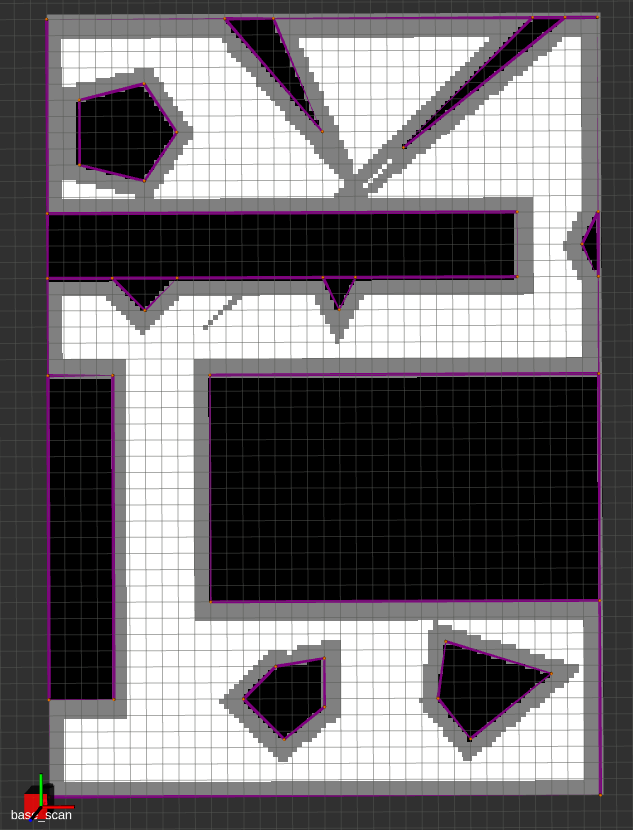
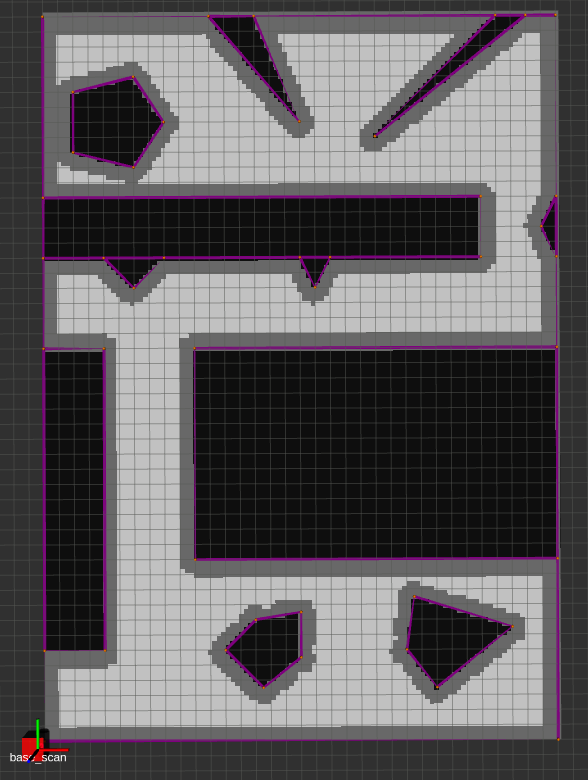
fixed final edge case for grid! Was being too strict on the signed distance being below the inflation threshold. Did not consider that the point P could lie outside of the line segment window.
Added images for grid result and grid-prm overlay to verify validity

diff --git a/map/src/map/prm.cpp b/map/src/map/prm.cpp
@@ -304,15 +304,49 @@ namespace map
 				// and determine signed distance
 				auto shrt = lineToPoint(Vertex(A), Vertex(B), Vertex(P.coords));
 
-				if (shrt.D < - inflate_robot)
-					// P is on the right side of at least one edge PLUS buffer, not necessarily on obstacle
-					// Only way this can be an obstacle now is if it's ON and edge (next condition)
+				if (shrt.D < 0.0)
+					// P is on the right side of at least one edge, not necessarily on obstacle
+					// Only way this can be an obstacle now is if it's ON and edge
 				{
-					on_all_left = false;
+					// if P is within the segment window, check whether it is in the inflation bound
+					if ((shrt.u >= 0.0 and shrt.u <= 1.0) or rigid2d::almost_equal(shrt.u, 0.0)\
+														  or rigid2d::almost_equal(shrt.u, 1.0))
+					{
+						if (shrt.D < - inflate_robot)
+						{
+							on_all_left = false;
+						}
+					} else
+					// P is not within the segment window, so check if distance to closest segment vertex is above
+					// inflation bound
+					{
+						if (shrt.u > 1.0)
+						// CLOSEST TO Vertex 2
+						{
+							auto dist = euclidean_distance(B.x - P.coords.x, B.y - P.coords.y);
+							if (dist > inflate_robot)
+							{
+								on_all_left = false;
+							} else {
+								return false;
+							}
+
+						} else if (shrt.u < 0.0)
+						// CLOSEST TO VERTEX 1
+						{
+							auto dist = euclidean_distance(A.x - P.coords.x, A.y - P.coords.y);
+							if (dist > inflate_robot)
+							{
+								on_all_left = false;
+							} else {
+								return false;
+							}
+						}
+					}
 				} else if (rigid2d::almost_equal(shrt.D, 0.0) and ((shrt.u >= 0.0 and shrt.u <= 1.0)\
 																	or (rigid2d::almost_equal(shrt.u, 0.0)\
 																		or rigid2d::almost_equal(shrt.u, 1.0))))
-					// if P is on an edge of an obstacle, it is disqualified immediately
+					// if P is on an edge of an obstacle and within segment bounds, it is disqualified immediately
 				{
 					return false;
 				} else if (rigid2d::almost_equal(shrt.D, 0.0))
@@ -341,6 +375,10 @@ namespace map
 							return false;
 						}
 					}
+				} else
+				// this means shrt.D > 0.0
+				{
+
 				}
 			}
 

diff --git a/map/src/map/grid.cpp b/map/src/map/grid.cpp
@@ -20,14 +20,14 @@ namespace map
 		ycells = arange<double>(map_min.y, map_max.y, resolution);
 
 		// Diagonal length of one cell
-		double offset = euclidean_distance(resolution, resolution);
+		// double offset = euclidean_distance(resolution, resolution);
 
-		std::cout << "OFFSET: " << offset << std::endl;
+		// std::cout << "OFFSET: " << offset << std::endl;
 
-		std::cout << "Grid decomposed!" << std::endl;
+		// std::cout << "Grid decomposed!" << std::endl;
 
-		std::cout << "# x cells: " << xcells.size() << std::endl;
-		std::cout << "# y cells: " << ycells.size() << std::endl;
+		// std::cout << "# x cells: " << xcells.size() << std::endl;
+		// std::cout << "# y cells: " << ycells.size() << std::endl;
 
 		// Step 2. Populate Cell vector (cells) with world coordinates and labels in row-major-order
 		for (int i = 0; i < static_cast<int>(xcells.size()); i++)
